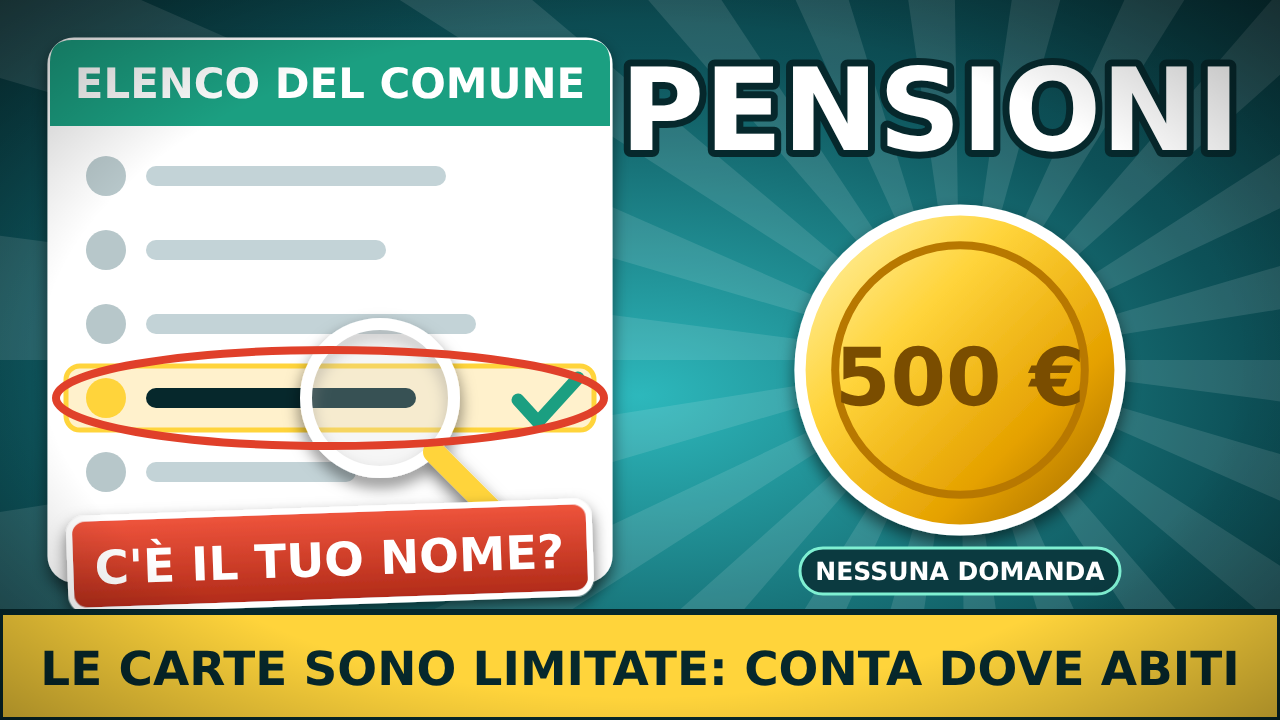
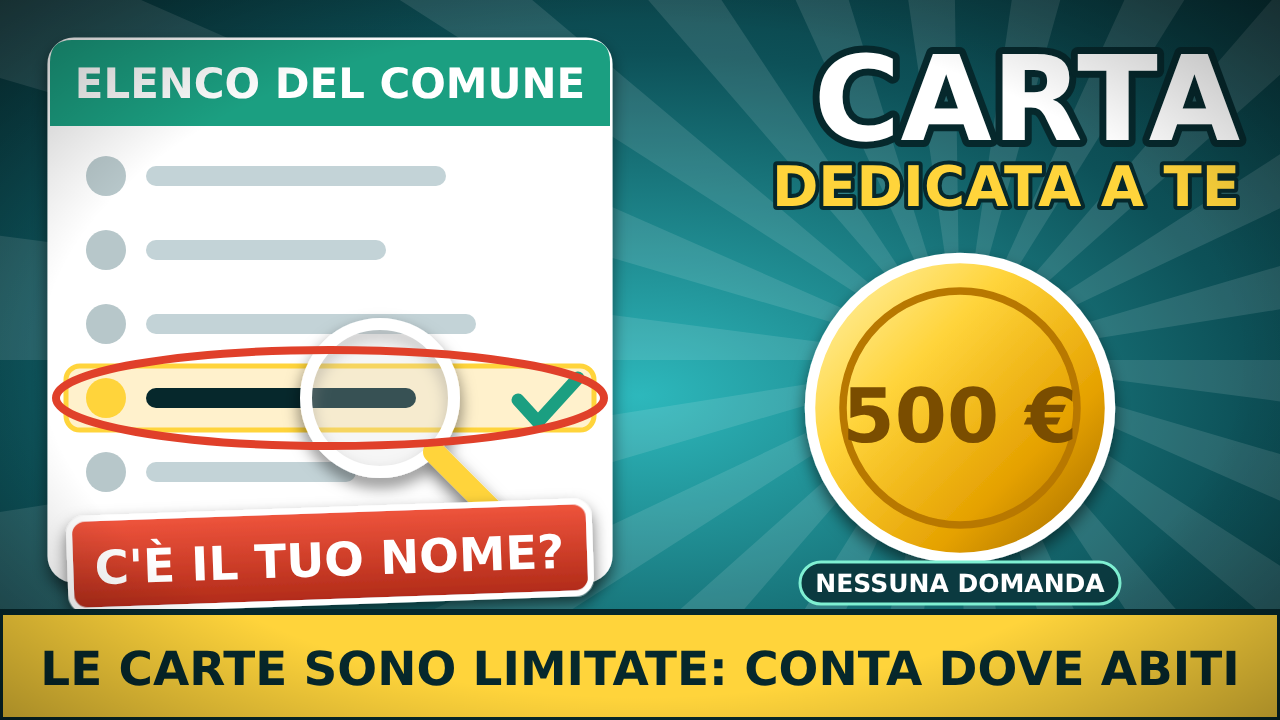
Video 15: pacchetto e miniature rifatti senza la parola PENSIONI
Claude-Session: https://claude.ai/code/session_016ZKFNdbMWARwCGV1xKceRg

Changed region(s): [[0.4688, 0.0611, 0.9688, 0.8556]]

diff --git a/conti_in_pensione/36-video-lungo-15-bonus-pensionati/miniatura/miniatura-A.html b/conti_in_pensione/36-video-lungo-15-bonus-pensionati/miniatura/miniatura-A.html
@@ -8,4 +8,4 @@
 <radialGradient id="vig" cx="0.5" cy="0.5" r="0.78"><stop offset="0.6" stop-color="#000" stop-opacity="0"/><stop offset="1" stop-color="#000" stop-opacity="0.45"/></radialGradient>
 <filter id="sh" x="-20%" y="-20%" width="140%" height="150%"><feDropShadow dx="0" dy="8" stdDeviation="8" flood-color="#000" flood-opacity="0.55"/></filter>
 <linearGradient id="cg" x1="0" y1="0" x2="1" y2="1"><stop offset="0" stop-color="#22C1BB"/><stop offset="0.55" stop-color="#0B5E6B"/><stop offset="1" stop-color="#052C33"/></linearGradient>
-</defs><rect width="1280" height="720" fill="url(#bg)"/><g opacity="0.11" fill="#fff"><path d="M300 330 L2000 330 L1986 548Z"/><path d="M300 330 L1931 809 L1856 1014Z"/><path d="M300 330 L1730 1249 L1601 1425Z"/><path d="M300 330 L1413 1615 L1239 1747Z"/><path d="M300 330 L1006 1876 L802 1954Z"/><path d="M300 330 L542 2013 L324 2030Z"/><path d="M300 330 L58 2013 L-156 1968Z"/><path d="M300 330 L-406 1876 L-599 1773Z"/><path d="M300 330 L-813 1615 L-969 1461Z"/><path d="M300 330 L-1130 1249 L-1236 1058Z"/><path d="M300 330 L-1331 809 L-1379 596Z"/><path d="M300 330 L-1400 330 L-1386 112Z"/><path d="M300 330 L-1331 -149 L-1256 -354Z"/><path d="M300 330 L-1130 -589 L-1001 -765Z"/><path d="M300 330 L-813 -955 L-639 -1087Z"/><path d="M300 330 L-406 -1216 L-202 -1294Z"/><path d="M300 330 L58 -1353 L276 -1370Z"/><path d="M300 330 L542 -1353 L756 -1308Z"/><path d="M300 330 L1006 -1216 L1199 -1113Z"/><path d="M300 330 L1413 -955 L1569 -801Z"/><path d="M300 330 L1730 -589 L1836 -398Z"/><path d="M300 330 L1931 -149 L1979 64Z"/></g><g transform="rotate(5 365.0 348.0)" filter="url(#sh)"><rect x="130" y="200" width="470" height="296" rx="30" fill="url(#cg)" stroke="#fff" stroke-width="6"/><polygon points="130,294.72 388.5,200 496.6,200 130,383.52" fill="#fff" opacity="0.08"/><rect x="164" y="288" width="84" height="62" rx="10" fill="#F2C96B" stroke="#B88A1F" stroke-width="3"/><line x1="164" y1="301" x2="248" y2="301" stroke="#B88A1F" stroke-width="3"/><line x1="164" y1="319" x2="248" y2="319" stroke="#B88A1F" stroke-width="3"/><line x1="164" y1="337" x2="248" y2="337" stroke="#B88A1F" stroke-width="3"/><line x1="206" y1="288" x2="206" y2="350" stroke="#B88A1F" stroke-width="3"/><circle cx="504" cy="438" r="40" fill="#E0402A" opacity="0.92"/><circle cx="542" cy="438" r="40" fill="#FFB838" opacity="0.92"/></g><g transform="rotate(5 365 348)"><text id="t1" x="566" y="278" class="t" font-size="70" fill="#FFD43B" text-anchor="end" stroke="#06282C" stroke-width="8" stroke-linejoin="round" paint-order="stroke" data-w="300">+500 €</text></g><g transform="rotate(-7 275.0 448.0)" filter="url(#sh)"><rect x="40" y="300" width="470" height="296" rx="30" fill="url(#cg)" stroke="#fff" stroke-width="6"/><polygon points="40,394.72 298.5,300 406.6,300 40,483.52" fill="#fff" opacity="0.08"/><rect x="74" y="388" width="84" height="62" rx="10" fill="#F2C96B" stroke="#B88A1F" stroke-width="3"/><line x1="74" y1="401" x2="158" y2="401" stroke="#B88A1F" stroke-width="3"/><line x1="74" y1="419" x2="158" y2="419" stroke="#B88A1F" stroke-width="3"/><line x1="74" y1="437" x2="158" y2="437" stroke="#B88A1F" stroke-width="3"/><line x1="116" y1="388" x2="116" y2="450" stroke="#B88A1F" stroke-width="3"/><circle cx="414" cy="538" r="40" fill="#E0402A" opacity="0.92"/><circle cx="452" cy="538" r="40" fill="#FFB838" opacity="0.92"/></g><g transform="rotate(-7 275.0 448.0)"><text id="t2" x="74" y="358" class="t" font-size="42" fill="#fff" text-anchor="start" data-w="400">DEDICATA A TE</text><text id="t3" x="74" y="560" class="t" font-size="150" fill="#fff" text-anchor="start" stroke="#06282C" stroke-width="10" stroke-linejoin="round" paint-order="stroke" data-w="310.2">500 €</text></g><text id="t4" x="40" y="168" class="t" font-size="128" fill="#fff" text-anchor="start" stroke="#06282C" stroke-width="14" stroke-linejoin="round" paint-order="stroke" data-w="620">PENSIONI</text><g transform="rotate(-2 860.0 123.0)" filter="url(#sh)"><rect x="700" y="96" width="320" height="54" rx="12" fill="url(#rd)" stroke="#fff" stroke-width="4"/></g><text id="t5" x="860" y="134" class="t" font-size="30" fill="#fff" text-anchor="middle" data-w="290" transform="rotate(-2 860 134)">DAL 4 NOVEMBRE</text><text id="t6" x="930" y="300" class="t" font-size="96" fill="#fff" text-anchor="middle" stroke="#06282C" stroke-width="12" stroke-linejoin="round" paint-order="stroke" data-w="300">LA</text><text id="t7" x="930" y="430" class="t" font-size="138" fill="#FFD43B" text-anchor="middle" stroke="#06282C" stroke-width="16" stroke-linejoin="round" paint-order="stroke" data-w="600">PRENDI?</text><g transform="rotate(-3 935.0 504.0)" filter="url(#sh)"><rect x="640" y="462" width="590" height="84" rx="14" fill="url(#rd)" stroke="#fff" stroke-width="6"/></g><text id="t8" x="935" y="523" class="t" font-size="54" fill="#fff" text-anchor="middle" data-w="520" transform="rotate(-3 935 523)">NON PER TUTTI</text><g><rect x="1000" y="22" width="240" height="42" rx="21.0" fill="#0B3A40" stroke="#7FF0D2" stroke-width="3"/></g><text id="t9" x="1120.0" y="51.64" class="t" font-size="24" fill="#fff" text-anchor="middle" data-w="210" data-box="1000,22,240,42">DAL DECRETO</text><g><rect x="0" y="612" width="1280" height="108" rx="0" fill="#FFD43B" stroke="#06282C" stroke-width="6"/></g><text id="t10" x="640" y="685" class="t" font-size="56" fill="#06282C" text-anchor="middle" data-w="1200" data-box="0,612,1280,108">FAMIGLIE PICCOLE: UNA REGOLA IN PIÙ</text><rect width="1280" height="720" fill="url(#vig)"/></svg></body></html>
+</defs><rect width="1280" height="720" fill="url(#bg)"/><g opacity="0.11" fill="#fff"><path d="M300 330 L2000 330 L1986 548Z"/><path d="M300 330 L1931 809 L1856 1014Z"/><path d="M300 330 L1730 1249 L1601 1425Z"/><path d="M300 330 L1413 1615 L1239 1747Z"/><path d="M300 330 L1006 1876 L802 1954Z"/><path d="M300 330 L542 2013 L324 2030Z"/><path d="M300 330 L58 2013 L-156 1968Z"/><path d="M300 330 L-406 1876 L-599 1773Z"/><path d="M300 330 L-813 1615 L-969 1461Z"/><path d="M300 330 L-1130 1249 L-1236 1058Z"/><path d="M300 330 L-1331 809 L-1379 596Z"/><path d="M300 330 L-1400 330 L-1386 112Z"/><path d="M300 330 L-1331 -149 L-1256 -354Z"/><path d="M300 330 L-1130 -589 L-1001 -765Z"/><path d="M300 330 L-813 -955 L-639 -1087Z"/><path d="M300 330 L-406 -1216 L-202 -1294Z"/><path d="M300 330 L58 -1353 L276 -1370Z"/><path d="M300 330 L542 -1353 L756 -1308Z"/><path d="M300 330 L1006 -1216 L1199 -1113Z"/><path d="M300 330 L1413 -955 L1569 -801Z"/><path d="M300 330 L1730 -589 L1836 -398Z"/><path d="M300 330 L1931 -149 L1979 64Z"/></g><g transform="rotate(5 365.0 348.0)" filter="url(#sh)"><rect x="130" y="200" width="470" height="296" rx="30" fill="url(#cg)" stroke="#fff" stroke-width="6"/><polygon points="130,294.72 388.5,200 496.6,200 130,383.52" fill="#fff" opacity="0.08"/><rect x="164" y="288" width="84" height="62" rx="10" fill="#F2C96B" stroke="#B88A1F" stroke-width="3"/><line x1="164" y1="301" x2="248" y2="301" stroke="#B88A1F" stroke-width="3"/><line x1="164" y1="319" x2="248" y2="319" stroke="#B88A1F" stroke-width="3"/><line x1="164" y1="337" x2="248" y2="337" stroke="#B88A1F" stroke-width="3"/><line x1="206" y1="288" x2="206" y2="350" stroke="#B88A1F" stroke-width="3"/><circle cx="504" cy="438" r="40" fill="#E0402A" opacity="0.92"/><circle cx="542" cy="438" r="40" fill="#FFB838" opacity="0.92"/></g><g transform="rotate(5 365 348)"><text id="t1" x="566" y="278" class="t" font-size="70" fill="#FFD43B" text-anchor="end" stroke="#06282C" stroke-width="8" stroke-linejoin="round" paint-order="stroke" data-w="300">+500 €</text></g><g transform="rotate(-7 275.0 448.0)" filter="url(#sh)"><rect x="40" y="300" width="470" height="296" rx="30" fill="url(#cg)" stroke="#fff" stroke-width="6"/><polygon points="40,394.72 298.5,300 406.6,300 40,483.52" fill="#fff" opacity="0.08"/><rect x="74" y="388" width="84" height="62" rx="10" fill="#F2C96B" stroke="#B88A1F" stroke-width="3"/><line x1="74" y1="401" x2="158" y2="401" stroke="#B88A1F" stroke-width="3"/><line x1="74" y1="419" x2="158" y2="419" stroke="#B88A1F" stroke-width="3"/><line x1="74" y1="437" x2="158" y2="437" stroke="#B88A1F" stroke-width="3"/><line x1="116" y1="388" x2="116" y2="450" stroke="#B88A1F" stroke-width="3"/><circle cx="414" cy="538" r="40" fill="#E0402A" opacity="0.92"/><circle cx="452" cy="538" r="40" fill="#FFB838" opacity="0.92"/></g><g transform="rotate(-7 275.0 448.0)"><text id="t2" x="74" y="358" class="t" font-size="42" fill="#fff" text-anchor="start" data-w="400">DEDICATA A TE</text><text id="t3" x="74" y="560" class="t" font-size="150" fill="#fff" text-anchor="start" stroke="#06282C" stroke-width="10" stroke-linejoin="round" paint-order="stroke" data-w="310.2">500 €</text></g><text id="t4" x="40" y="168" class="t" font-size="128" fill="#fff" text-anchor="start" stroke="#06282C" stroke-width="14" stroke-linejoin="round" paint-order="stroke" data-w="620">CARTA</text><g transform="rotate(-2 860.0 123.0)" filter="url(#sh)"><rect x="700" y="96" width="320" height="54" rx="12" fill="url(#rd)" stroke="#fff" stroke-width="4"/></g><text id="t5" x="860" y="134" class="t" font-size="30" fill="#fff" text-anchor="middle" data-w="290" transform="rotate(-2 860 134)">DAL 4 NOVEMBRE</text><text id="t6" x="930" y="300" class="t" font-size="96" fill="#fff" text-anchor="middle" stroke="#06282C" stroke-width="12" stroke-linejoin="round" paint-order="stroke" data-w="300">LA</text><text id="t7" x="930" y="430" class="t" font-size="138" fill="#FFD43B" text-anchor="middle" stroke="#06282C" stroke-width="16" stroke-linejoin="round" paint-order="stroke" data-w="600">PRENDI?</text><g transform="rotate(-3 935.0 504.0)" filter="url(#sh)"><rect x="640" y="462" width="590" height="84" rx="14" fill="url(#rd)" stroke="#fff" stroke-width="6"/></g><text id="t8" x="935" y="523" class="t" font-size="54" fill="#fff" text-anchor="middle" data-w="520" transform="rotate(-3 935 523)">NON PER TUTTI</text><g><rect x="1000" y="22" width="240" height="42" rx="21.0" fill="#0B3A40" stroke="#7FF0D2" stroke-width="3"/></g><text id="t9" x="1120.0" y="51.64" class="t" font-size="24" fill="#fff" text-anchor="middle" data-w="210" data-box="1000,22,240,42">DAL DECRETO</text><g><rect x="0" y="612" width="1280" height="108" rx="0" fill="#FFD43B" stroke="#06282C" stroke-width="6"/></g><text id="t10" x="640" y="685" class="t" font-size="56" fill="#06282C" text-anchor="middle" data-w="1200" data-box="0,612,1280,108">FAMIGLIE PICCOLE: UNA REGOLA IN PIÙ</text><rect width="1280" height="720" fill="url(#vig)"/></svg></body></html>

diff --git a/conti_in_pensione/36-video-lungo-15-bonus-pensionati/miniatura/miniatura-B.html b/conti_in_pensione/36-video-lungo-15-bonus-pensionati/miniatura/miniatura-B.html
@@ -8,4 +8,4 @@
 <radialGradient id="vig" cx="0.5" cy="0.5" r="0.78"><stop offset="0.6" stop-color="#000" stop-opacity="0"/><stop offset="1" stop-color="#000" stop-opacity="0.45"/></radialGradient>
 <filter id="sh" x="-20%" y="-20%" width="140%" height="150%"><feDropShadow dx="0" dy="8" stdDeviation="8" flood-color="#000" flood-opacity="0.55"/></filter>
 <linearGradient id="cg" x1="0" y1="0" x2="1" y2="1"><stop offset="0" stop-color="#22C1BB"/><stop offset="0.55" stop-color="#0B5E6B"/><stop offset="1" stop-color="#052C33"/></linearGradient>
-</defs><rect width="1280" height="720" fill="url(#bg)"/><g opacity="0.11" fill="#fff"><path d="M960 360 L2660 360 L2646 578Z"/><path d="M960 360 L2591 839 L2516 1044Z"/><path d="M960 360 L2390 1279 L2261 1455Z"/><path d="M960 360 L2073 1645 L1899 1777Z"/><path d="M960 360 L1666 1906 L1462 1984Z"/><path d="M960 360 L1202 2043 L984 2060Z"/><path d="M960 360 L718 2043 L504 1998Z"/><path d="M960 360 L254 1906 L61 1803Z"/><path d="M960 360 L-153 1645 L-309 1491Z"/><path d="M960 360 L-470 1279 L-576 1088Z"/><path d="M960 360 L-671 839 L-719 626Z"/><path d="M960 360 L-740 360 L-726 142Z"/><path d="M960 360 L-671 -119 L-596 -324Z"/><path d="M960 360 L-470 -559 L-341 -735Z"/><path d="M960 360 L-153 -925 L21 -1057Z"/><path d="M960 360 L254 -1186 L458 -1264Z"/><path d="M960 360 L718 -1323 L936 -1340Z"/><path d="M960 360 L1202 -1323 L1416 -1278Z"/><path d="M960 360 L1666 -1186 L1859 -1083Z"/><path d="M960 360 L2073 -925 L2229 -771Z"/><path d="M960 360 L2390 -559 L2496 -368Z"/><path d="M960 360 L2591 -119 L2639 94Z"/></g><text id="t11" x="1240" y="150" class="t" font-size="128" fill="#fff" text-anchor="end" stroke="#06282C" stroke-width="14" stroke-linejoin="round" paint-order="stroke" data-w="620">PENSIONI</text><g transform="translate(960 370)" filter="url(#sh)"><circle r="160" fill="url(#go)" stroke="#fff" stroke-width="11.200000000000001"/><circle r="124.80000000000001" fill="none" stroke="#B87800" stroke-width="8.0"/></g><text id="t12" x="960" y="405" class="t" font-size="96" fill="#7A4D00" text-anchor="middle" data-w="250">500 €</text><g><rect x="800" y="548" width="320" height="46" rx="23.0" fill="#0B3A40" stroke="#7FF0D2" stroke-width="3"/></g><text id="t13" x="960.0" y="580.36" class="t" font-size="26" fill="#fff" text-anchor="middle" data-w="290" data-box="800,548,320,46">NESSUNA DOMANDA</text><g filter="url(#sh)"><rect x="50" y="40" width="560" height="540" rx="24" fill="#fff" stroke="#fff" stroke-width="5"/></g><path d="M50 126 V62 Q50 40 72 40 H588 Q610 40 610 62 V126 Z" fill="#1B9F81"/><text id="t14" x="330.0" y="98" class="t" font-size="44" fill="#fff" text-anchor="middle" data-w="510" data-box="50,40,560,86">ELENCO DEL COMUNE</text><circle cx="106" cy="176" r="20" fill="#B7C7CA"/><rect x="146" y="166" width="300" height="20" rx="10" fill="#C3D3D7"/><circle cx="106" cy="250" r="20" fill="#B7C7CA"/><rect x="146" y="240" width="240" height="20" rx="10" fill="#C3D3D7"/><circle cx="106" cy="324" r="20" fill="#B7C7CA"/><rect x="146" y="314" width="330" height="20" rx="10" fill="#C3D3D7"/><rect x="66" y="366" width="528" height="64" rx="14" fill="#FFF1CC" stroke="#FFD43B" stroke-width="5"/><circle cx="106" cy="398" r="20" fill="#FFD43B"/><rect x="146" y="388" width="270" height="20" rx="10" fill="#06282C"/><path d="M518 400 l20 22 l40 -44" fill="none" stroke="#1B9F81" stroke-width="13" stroke-linecap="round" stroke-linejoin="round"/><circle cx="106" cy="472" r="20" fill="#B7C7CA"/><rect x="146" y="462" width="210" height="20" rx="10" fill="#C3D3D7"/><circle cx="106" cy="546" r="20" fill="#B7C7CA"/><rect x="146" y="536" width="280" height="20" rx="10" fill="#C3D3D7"/><g filter="url(#sh)"><circle cx="380" cy="398" r="74" fill="rgba(255,255,255,0.16)" stroke="#fff" stroke-width="12"/><line x1="434" y1="452" x2="502" y2="520" stroke="#FFD43B" stroke-width="22" stroke-linecap="round"/></g><ellipse cx="330.0" cy="398" rx="274.0" ry="48" fill="none" stroke="#E0402A" stroke-width="8"/><g transform="rotate(-2 330.0 556.0)" filter="url(#sh)"><rect x="70" y="510" width="520" height="92" rx="16" fill="url(#rd)" stroke="#fff" stroke-width="6"/></g><text id="t15" x="330.0" y="576" class="t" font-size="52" fill="#fff" text-anchor="middle" data-w="470" transform="rotate(-2 330.0 576)">C'È IL TUO NOME?</text><g><rect x="0" y="612" width="1280" height="108" rx="0" fill="#FFD43B" stroke="#06282C" stroke-width="6"/></g><text id="t16" x="640" y="685" class="t" font-size="54" fill="#06282C" text-anchor="middle" data-w="1200" data-box="0,612,1280,108">LE CARTE SONO LIMITATE: CONTA DOVE ABITI</text><rect width="1280" height="720" fill="url(#vig)"/></svg></body></html>
+</defs><rect width="1280" height="720" fill="url(#bg)"/><g opacity="0.11" fill="#fff"><path d="M960 360 L2660 360 L2646 578Z"/><path d="M960 360 L2591 839 L2516 1044Z"/><path d="M960 360 L2390 1279 L2261 1455Z"/><path d="M960 360 L2073 1645 L1899 1777Z"/><path d="M960 360 L1666 1906 L1462 1984Z"/><path d="M960 360 L1202 2043 L984 2060Z"/><path d="M960 360 L718 2043 L504 1998Z"/><path d="M960 360 L254 1906 L61 1803Z"/><path d="M960 360 L-153 1645 L-309 1491Z"/><path d="M960 360 L-470 1279 L-576 1088Z"/><path d="M960 360 L-671 839 L-719 626Z"/><path d="M960 360 L-740 360 L-726 142Z"/><path d="M960 360 L-671 -119 L-596 -324Z"/><path d="M960 360 L-470 -559 L-341 -735Z"/><path d="M960 360 L-153 -925 L21 -1057Z"/><path d="M960 360 L254 -1186 L458 -1264Z"/><path d="M960 360 L718 -1323 L936 -1340Z"/><path d="M960 360 L1202 -1323 L1416 -1278Z"/><path d="M960 360 L1666 -1186 L1859 -1083Z"/><path d="M960 360 L2073 -925 L2229 -771Z"/><path d="M960 360 L2390 -559 L2496 -368Z"/><path d="M960 360 L2591 -119 L2639 94Z"/></g><text id="t11" x="1240" y="140" class="t" font-size="118" fill="#fff" text-anchor="end" stroke="#06282C" stroke-width="14" stroke-linejoin="round" paint-order="stroke" data-w="620">CARTA</text><text id="t12" x="1240" y="206" class="t" font-size="56" fill="#FFD43B" text-anchor="end" stroke="#06282C" stroke-width="8" stroke-linejoin="round" paint-order="stroke" data-w="600">DEDICATA A TE</text><g transform="translate(960 408)" filter="url(#sh)"><circle r="150" fill="url(#go)" stroke="#fff" stroke-width="10.500000000000002"/><circle r="117.0" fill="none" stroke="#B87800" stroke-width="7.5"/></g><text id="t13" x="960" y="442" class="t" font-size="90" fill="#7A4D00" text-anchor="middle" data-w="235">500 €</text><g><rect x="800" y="562" width="320" height="42" rx="21.0" fill="#0B3A40" stroke="#7FF0D2" stroke-width="3"/></g><text id="t14" x="960.0" y="592.36" class="t" font-size="26" fill="#fff" text-anchor="middle" data-w="290" data-box="800,562,320,42">NESSUNA DOMANDA</text><g filter="url(#sh)"><rect x="50" y="40" width="560" height="540" rx="24" fill="#fff" stroke="#fff" stroke-width="5"/></g><path d="M50 126 V62 Q50 40 72 40 H588 Q610 40 610 62 V126 Z" fill="#1B9F81"/><text id="t15" x="330.0" y="98" class="t" font-size="44" fill="#fff" text-anchor="middle" data-w="510" data-box="50,40,560,86">ELENCO DEL COMUNE</text><circle cx="106" cy="176" r="20" fill="#B7C7CA"/><rect x="146" y="166" width="300" height="20" rx="10" fill="#C3D3D7"/><circle cx="106" cy="250" r="20" fill="#B7C7CA"/><rect x="146" y="240" width="240" height="20" rx="10" fill="#C3D3D7"/><circle cx="106" cy="324" r="20" fill="#B7C7CA"/><rect x="146" y="314" width="330" height="20" rx="10" fill="#C3D3D7"/><rect x="66" y="366" width="528" height="64" rx="14" fill="#FFF1CC" stroke="#FFD43B" stroke-width="5"/><circle cx="106" cy="398" r="20" fill="#FFD43B"/><rect x="146" y="388" width="270" height="20" rx="10" fill="#06282C"/><path d="M518 400 l20 22 l40 -44" fill="none" stroke="#1B9F81" stroke-width="13" stroke-linecap="round" stroke-linejoin="round"/><circle cx="106" cy="472" r="20" fill="#B7C7CA"/><rect x="146" y="462" width="210" height="20" rx="10" fill="#C3D3D7"/><circle cx="106" cy="546" r="20" fill="#B7C7CA"/><rect x="146" y="536" width="280" height="20" rx="10" fill="#C3D3D7"/><g filter="url(#sh)"><circle cx="380" cy="398" r="74" fill="rgba(255,255,255,0.16)" stroke="#fff" stroke-width="12"/><line x1="434" y1="452" x2="502" y2="520" stroke="#FFD43B" stroke-width="22" stroke-linecap="round"/></g><ellipse cx="330.0" cy="398" rx="274.0" ry="48" fill="none" stroke="#E0402A" stroke-width="8"/><g transform="rotate(-2 330.0 556.0)" filter="url(#sh)"><rect x="70" y="510" width="520" height="92" rx="16" fill="url(#rd)" stroke="#fff" stroke-width="6"/></g><text id="t16" x="330.0" y="576" class="t" font-size="52" fill="#fff" text-anchor="middle" data-w="470" transform="rotate(-2 330.0 576)">C'È IL TUO NOME?</text><g><rect x="0" y="612" width="1280" height="108" rx="0" fill="#FFD43B" stroke="#06282C" stroke-width="6"/></g><text id="t17" x="640" y="685" class="t" font-size="54" fill="#06282C" text-anchor="middle" data-w="1200" data-box="0,612,1280,108">LE CARTE SONO LIMITATE: CONTA DOVE ABITI</text><rect width="1280" height="720" fill="url(#vig)"/></svg></body></html>

diff --git a/conti_in_pensione/36-video-lungo-15-bonus-pensionati/miniatura/gen15.py b/conti_in_pensione/36-video-lungo-15-bonus-pensionati/miniatura/gen15.py
@@ -82,7 +82,7 @@ def A():
     # prima carta davanti
     o+=pcard(40,300,470,296,-7,'',0,'')
     o+=pcard_text(40,300,470,296,-7,'500 €',150,'DEDICATA A TE')
-    o+=T('PENSIONI',40,168,128,'#fff',14,'start',maxw=620)
+    o+=T('CARTA',40,168,128,'#fff',14,'start',maxw=620)
     o+=R(700,96,320,54,'url(#rd)',r=12,stroke='#fff',sw=4,rot=-2)+T('DAL 4 NOVEMBRE',860,96+27+11,30,'#fff',maxw=290,rot=-2)
     # destra: LA PRENDI?
     o+=T('LA',930,300,96,'#fff',12,maxw=300)
@@ -94,10 +94,10 @@ def A():
     return page(o,(300,330))
 # ---------------- B: ELENCO DEL COMUNE + LENTE ----------------
 def B():
-    o=T('PENSIONI',1240,150,128,'#fff',14,'end',maxw=620)
+    o=T('CARTA',1240,140,118,'#fff',14,'end',maxw=620)+T('DEDICATA A TE',1240,206,56,YEL,8,'end',maxw=600)
     # moneta 500
-    o+=coin(960,370,160,False)+T('500 €',960,405,96,'#7A4D00',0,maxw=250)
-    o+=pill_small(800,548,320,46,'NESSUNA DOMANDA',26)
+    o+=coin(960,408,150,False)+T('500 €',960,442,90,'#7A4D00',0,maxw=235)
+    o+=pill_small(800,562,320,42,'NESSUNA DOMANDA',26)
     # elenco del Comune
     X,Y,Wd,Hd=50,40,560,540
     o+=R(X,Y,Wd,Hd,'#fff',r=24,stroke='#fff',sw=5)
